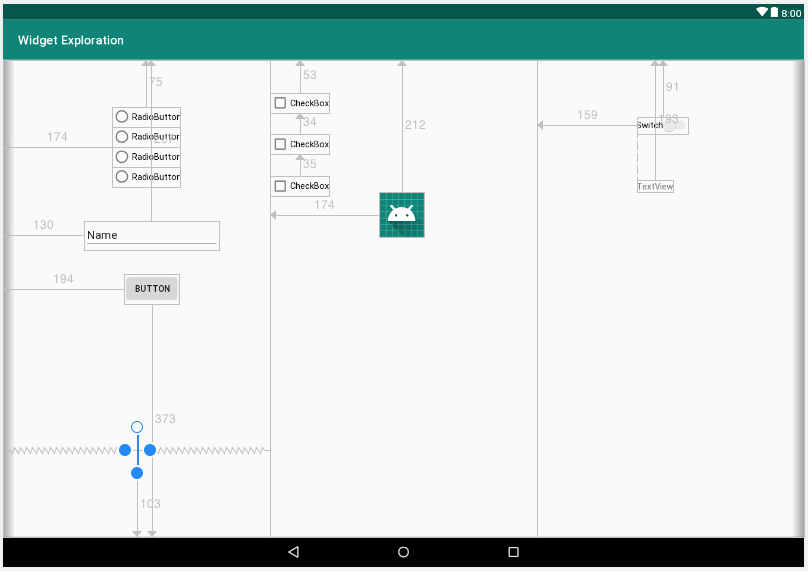
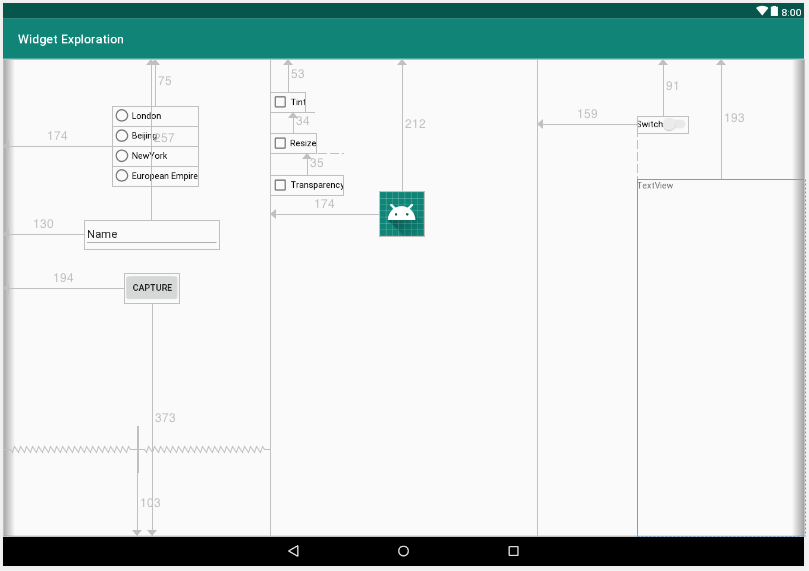
13: ended widget-exploration-app.md

diff --git a/13-anonymous-classes/widget-exploration-app.md b/13-anonymous-classes/widget-exploration-app.md
@@ -98,3 +98,115 @@
 ![](assets/result-5.png)
 
 Мы поместили все необходимые виджеты в макет и настроили их атрибуты. Теперь мы можем приступить к использованию всех этих виджетов в нашем коде Java.
+
+## Кодирование Java-кода
+Первым делом, сделаем так, чтобы наш макет отображался, изменив вызов **setContentView** в методе **onCreate**
+```java
+setContentView(R.layout.exploration_layout);
+```
+Далее, давайте получим ссылки на все части пользовательского интерфейса, которые мы будем использовать в Java-коде.
+
+### Получение ссылок на части пользовательского интерфейса
+Сразу после вызова **setContentView** в методе **onCreate** введем код получения ссылок.
+```java
+        final RadioGroup radioGroup = (RadioGroup) findViewById(R.id.radioGroup);
+        final RadioButton radioButtonLondon = (RadioButton) findViewById(R.id.radioButtonLondon);
+        // дальше самостоятельно
+```
+Единственное, что является здесь новым, - это то, что некоторые переменные объявляются как **final**. Это необходимо, так как они будут использоваться в анонимном классе.
+
+> Разве final не означает, что объект нельзя изменить?  
+Если вы помните, мы говорили, что переменные, объявленные как **final**, не могут быть изменены; они являются константой. А как мы тогда собираемся изменить атрибуты этих объектов?  
+Помните, что переменные ссылочного типа только ссылаются на объект в куче, а сами не являются объектом? Мы можем думать о них как об адресе объекта. Так вот, этот адрес с **final** не может измениться, но сам объект мы все еще можем изменять так, как нам нравится.
+
+### Кодирование Checkbox-ов
+Теперь мы можем создать анонимный класс для прослушивания и обработки щелчков по **Checkbox**-ам. Следующие три блока кода реализуют анонимный класс для каждого из **Checkbox** по очереди. Однако каждый из них отличается тем, как мы реагируем на щелчок.
+
+#### Изменение прозрачности
+Первый **Checkbox** называется Transparency, и мы будет использовать метод **setAlpha** у **ImageView**, чтобы изменить его прозрачность. Метод setAlpha принимает в качестве аргумента значение с плавающей запятой между 0 и 1, Где 0 полностью прозрачен, 1 полностью непрозрачен. Когда **Checkbox** установлен, по устанавливаем значение alpha ```.1```, чтобы изображение было едва видимым, а когда снят, мы устанавливаем alpha в 1.
+
+Добавьте следующий код после предыдущего блока кода в **onCreate**:
+```java
+    checkBoxTransparency.setOnCheckedChangeListener(new CompoundButton.OnCheckedChangeListener() {
+        @Override
+        public void onCheckedChanged(CompoundButton compoundButton, boolean isChecked) {
+            if (isChecked) {
+                imageView.setAlpha(.1f);
+            } else {
+                imageView.setAlpha(1f);
+            }
+        }
+    });
+```
+В следующем анонимном классе мы обрабатываем **Transparent** с надписью Tint.
+
+#### Изменение цвета
+Мы используем метод **setColorFilter** у **ImageView** для наложения цветного слоя на изображение. Когда **Checkbox** установлен, слой есть.
+
+Метод **setColorFilter** принимает в качестве аргумента цвет в формате ARGB (Alpha, Red, Green, and Blue). Цвет обеспечивается статическим методом **argb** класса **Color**. Четыре аргумента метода **argb** - это, как и следовало ожидать, значения для Alpha, Red, Green, and Blue. Эти четыре значения создают цвет. В нашем случае значение ```150, 255, 0, 0``` создает сильный красный оттенок, а значение ```0, 0, 0, 0``` не создает оттенка вообще.
+
+> Чтобы узнать больше о классе **Color**, посетите сайт [Android developer](http://developer.android.com/reference/android/graphics/Color.html), а чтобы лучше понять цветовую систему RGB, можете заглянуть в [Википедию](https://en.wikipedia.org/wiki/RGB_color_model).
+
+Добавте обработчик для **checkBoxTint** для изменения оттенка **ImageView**
+
+#### Изменение размера
+В анонимном классе, который обрабатывает **Checkbox** c надписью Resize, мы используем метод **setScaleX** для изменения размера изображения. Когда мы вызовем ```setScaleX(2)``` и ```setScaleY(2)``` у **ImageView**, мы удвоим размер изображения. ```setScaleX(1)``` и ```setScaleY(1)``` вернет его в нормальное состояние.
+
+Добавте обработчик для **checkBoxReSize** для изменения размера **ImageView**
+
+### Кодирование RadioButton
+Поскольку **RadioButton** являются частью **RadioGroup**, мы можем обращаться с ними гораздо более кратко, чем с объектами **CheckBox**.
+
+Во-первых, мы удостоверимся, что отметок нет, вызывая метод **clearCheck** у ```radioGroup```. Затем мы создаем наш анонимный класс реализующий интерфейс OnCheckedChangedListener и переопределяем метод onCheckedChanged.
+
+Этот метод будет вызван при щелчке любого **RadioButton** из **RadioGroup**. Все, что нам нужно сделать, это по полученному идентификатору **RadioButton**, который был нажат, ответить соответствующим образом. Мы достигнем этого, используя оператор **switch** с тремя возможными случаями (**case**).  
+В каждом случае, мы используем метод **setTimeZone** с соответствующим кодом часового пояса в качестве аргумента.
+
+> Вы можете увидеть все коды часовых поясов используемых в Андроида [здесь](https://gist.github.com/arpit/1035596)
+
+```java
+        radioGroup.clearCheck();
+        radioGroup.setOnCheckedChangeListener(new RadioGroup.OnCheckedChangeListener() {
+            @Override
+            public void onCheckedChanged(RadioGroup radioGroup, int checkedId) {
+                switch (checkedId) {
+                    case R.id.radioButtonLondon:
+                        textClock.setTimeZone("Europe/London");
+                        break;
+                    case R.id.radioButtonBeijing:
+                        textClock.setTimeZone("CST6CDT");
+                        break;
+                    case R.id.radioButtonNewYork:
+                        textClock.setTimeZone("America/New_York");
+                        break;
+                    case R.id.radioButtonEuropeanEmpire:
+                        textClock.setTimeZone("Europe/Brussels");
+                        break;
+                }
+            }
+        });
+```
+
+А теперь кое-что новенькое
+
+### Использование анонимного класса для обычной кнопки
+В следующем блоке кода, мы используем анонимный класс для обработки щелчков по обычной кнопке. Мы вызывем метод **setOnclickListener** у ```button```, как мы уже делали ранее. На этот раз, вместо того, чтобы передавать ```this``` в качестве аргумента, мы создадим совершенно новый класс типа **View.OnClickListener** и переопредем метод **onClick**, так же, как мы сделали с другими нашими анонимными классами.
+
+В методе **onClick** мы используем **setText** для установки свойства **text** в ```textView``` и метод **getText** у ```editText``` для получения текста, находящегося в данный момент в виджете **EditText**.
+```java
+        button.setOnClickListener(new View.OnClickListener(){
+            @Override
+            public void onClick(View view) {
+                // самостоятельно
+            }
+        });
+```
+
+## Кодирование Switch
+И в конце, мы создаем еще один анонимный класс для прослушивания и обработки изменений в нашем виджете **Switch**.
+
+Если переменная isChecked true, мы показываем ```textView```, а если false, то скрываем его.
+
+Реализуйте этот блок самостоятельно. Анонимный класс должен реализовывать интерфейс **CompoundButton.OnCheckedChangeListener**
+
+После, мы можем запустить наше приложение и попробовать все его функции.
